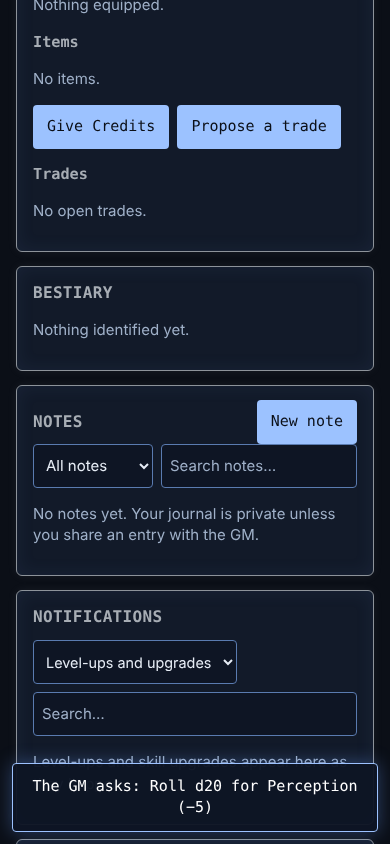
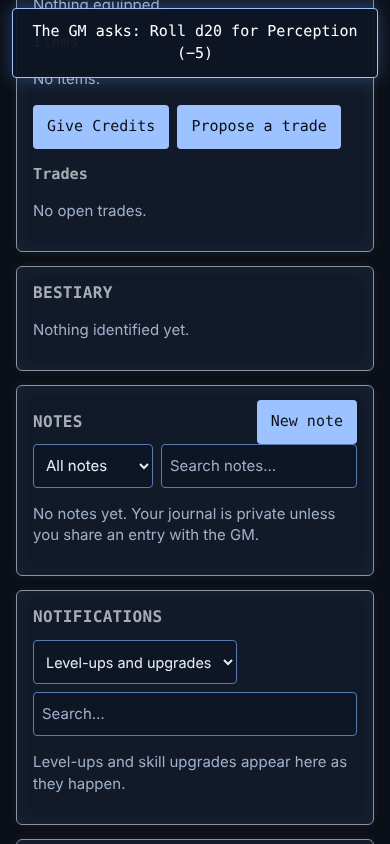
fix(QF.71, QF.72): a request survives no retyping (kept roller); the roll notice at the top, in an always-present live region
Claude-Session: https://claude.ai/code/session_015YxiCcoFdiN8qk3anyTNeB

diff --git a/apps/web/src/gm/Encounter.tsx b/apps/web/src/gm/Encounter.tsx
@@ -168,7 +168,9 @@ function ContestRoller({ state, busy, send, clear }: ToolProps) {
   // that moves a side's modifier away from that ends the side's request, so the
   // phone is never left with a number the contest will not use. Sides that do
   // not make a contest yet (a value being retyped) decide when they do.
-  const [askedMod, setAskedMod] = useState<{ a?: number | undefined; b?: number | undefined }>({});
+  // The roller is kept too: while a side is being retyped there is no plan to name it.
+  type Asked = { readonly roller: NonNullable<typeof rollerA>; readonly modifier?: number };
+  const [askedOf, setAskedOf] = useState<{ a?: Asked; b?: Asked }>({});
   const closeMoved = (
     nextA: SideDraft,
     nextB: SideDraft,
@@ -177,11 +179,16 @@ function ContestRoller({ state, busy, send, clear }: ToolProps) {
   ) => {
     const after = contestModifiers(state, nextA, nextB, nextMode);
     const moved = (['a', 'b'] as const).filter(
-      (s) => s === alsoClose || (after !== null && askedMod[s] !== after[s]),
+      (s) =>
+        askedOf[s] !== undefined &&
+        (s === alsoClose || (after !== null && askedOf[s]?.modifier !== after[s])),
     );
     if (moved.length === 0) return;
     const clears = rollClears(
-      moved.map((s) => (s === 'a' ? ([rollerA, phoneA] as const) : ([rollerB, phoneB] as const))),
+      moved.map((s) => {
+        const roller = askedOf[s]?.roller ?? null;
+        return [roller, phoneDie(state, roller, asked[s])] as const;
+      }),
     );
     setAsked((prev) => ({
       a: moved.includes('a') ? new Set() : prev.a,
@@ -344,7 +351,10 @@ function ContestRoller({ state, busy, send, clear }: ToolProps) {
                         const requestId = newRequestId();
                         // QF.71: the phone shows this contest's modifier, not the sheet's.
                         const modifier = contestModifiers(state, a, b, mode)?.[side];
-                        setAskedMod((prev) => ({ ...prev, [side]: modifier }));
+                        setAskedOf((prev) => ({
+                          ...prev,
+                          [side]: { roller: r, ...(modifier === undefined ? {} : { modifier }) },
+                        }));
                         setAsked((prev) => ({
                           ...prev,
                           [side]: new Set([...prev[side], requestId]),

diff --git a/apps/web/src/player/RollPrompt.tsx b/apps/web/src/player/RollPrompt.tsx
@@ -77,23 +77,25 @@ export function RollPrompt({ client, view }: { client: LiveClient | null; view: 
 export function RollCall({ view }: { view: PlayerView }) {
   const [went, setWent] = useState<string | null>(null);
   const req = view.rollRequest;
-  if (req === null || req.answer !== null || went === req.id) return null;
-  const { title } = rollPromptText(view, req);
+  const open = req !== null && req.answer === null && went !== req.id;
+  // The live region is always there, so screen readers announce what appears in it.
   return (
-    <div className="roll-call-layer" aria-live="polite">
-      <button
-        type="button"
-        className="roll-call"
-        data-testid="roll-call"
-        onClick={() => {
-          setWent(req.id);
-          document
-            .querySelector('[data-testid="roll-prompt"]')
-            ?.scrollIntoView({ block: 'center' });
-        }}
-      >
-        The GM asks: {title}
-      </button>
+    <div className="roll-call-layer" role="status" data-testid="roll-call-layer">
+      {open && (
+        <button
+          type="button"
+          className="roll-call"
+          data-testid="roll-call"
+          onClick={() => {
+            setWent(req.id);
+            document
+              .querySelector('[data-testid="roll-prompt"]')
+              ?.scrollIntoView({ block: 'center' });
+          }}
+        >
+          The GM asks: {rollPromptText(view, req).title}
+        </button>
+      )}
     </div>
   );
 }

diff --git a/apps/web/src/styles.css b/apps/web/src/styles.css
@@ -1126,8 +1126,9 @@ button.secondary:hover {
   position: fixed;
   left: 0;
   right: 0;
-  bottom: 12px;
-  z-index: 40;
+  /* The top: DINGs hold the bottom; below the modal pop-ups (z 11 and up). */
+  top: 8px;
+  z-index: 10;
   display: flex;
   justify-content: center;
   padding: 0 12px;
